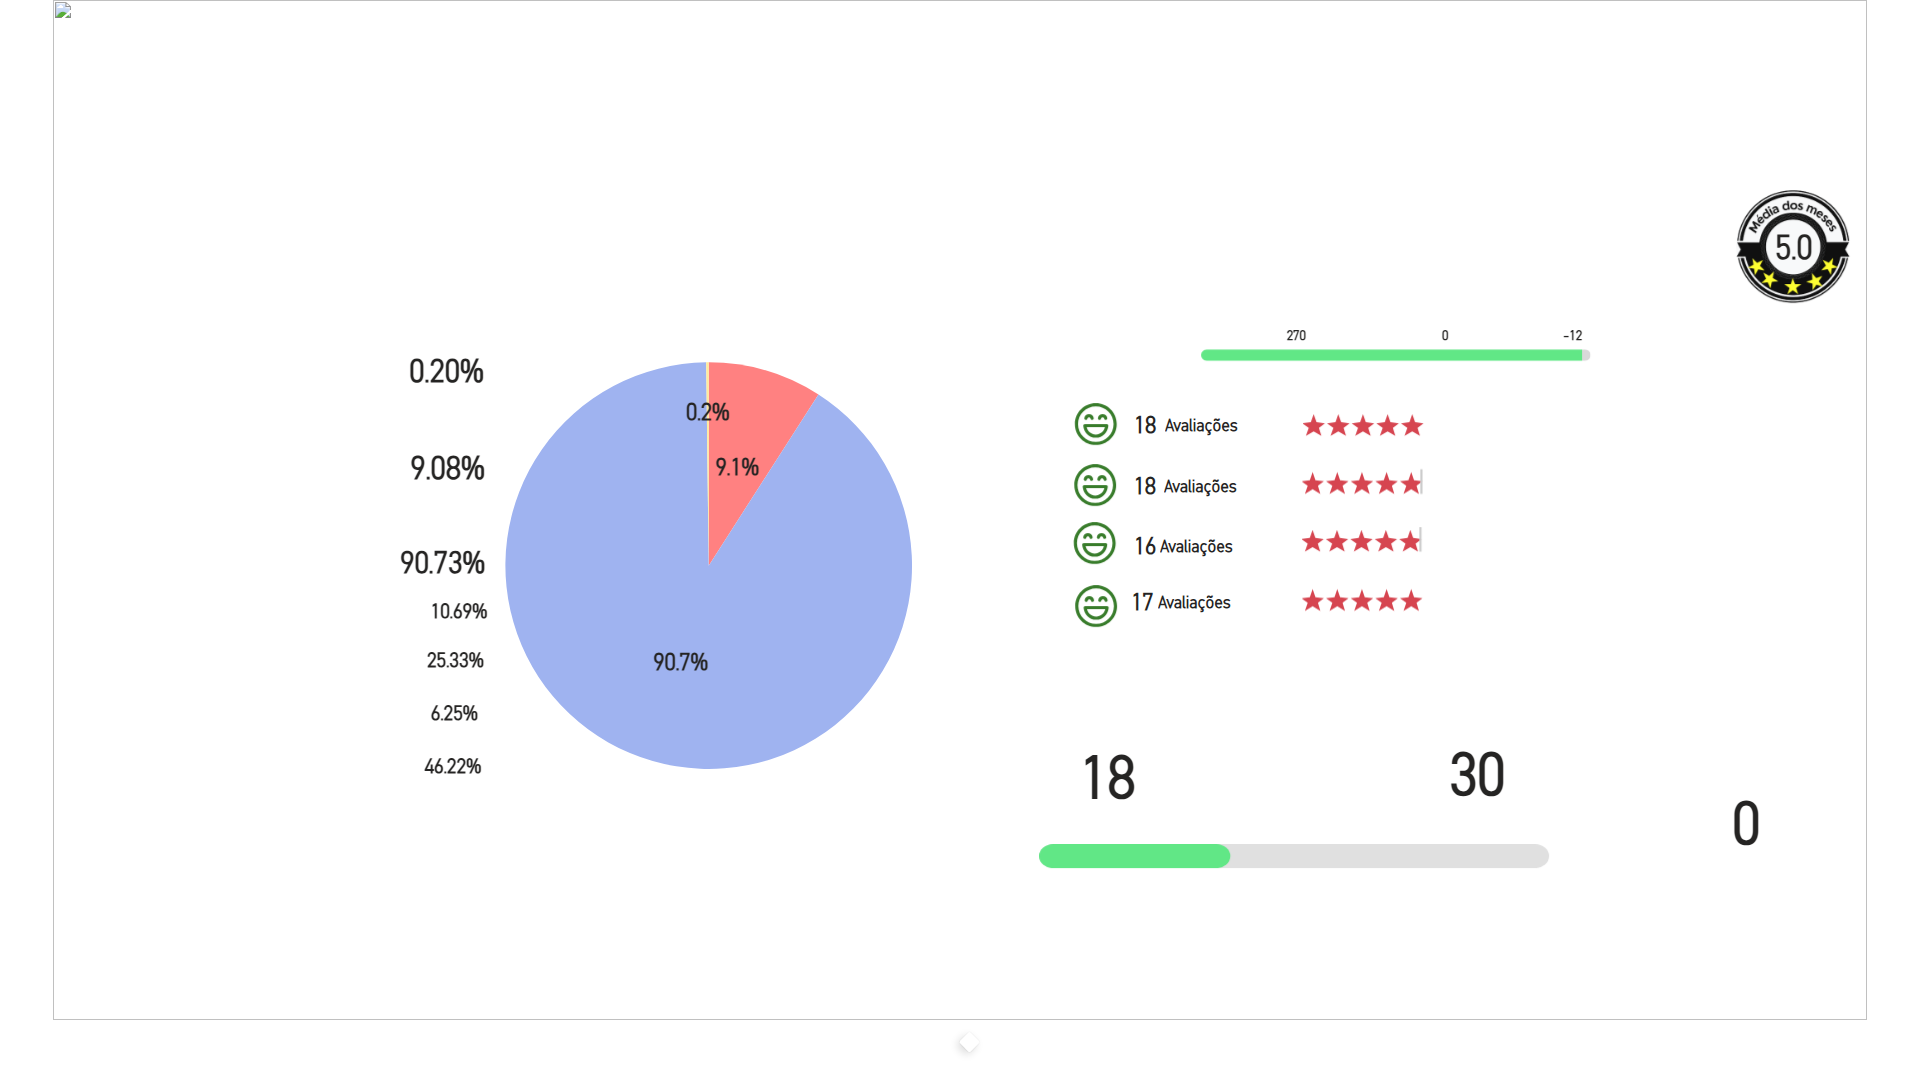
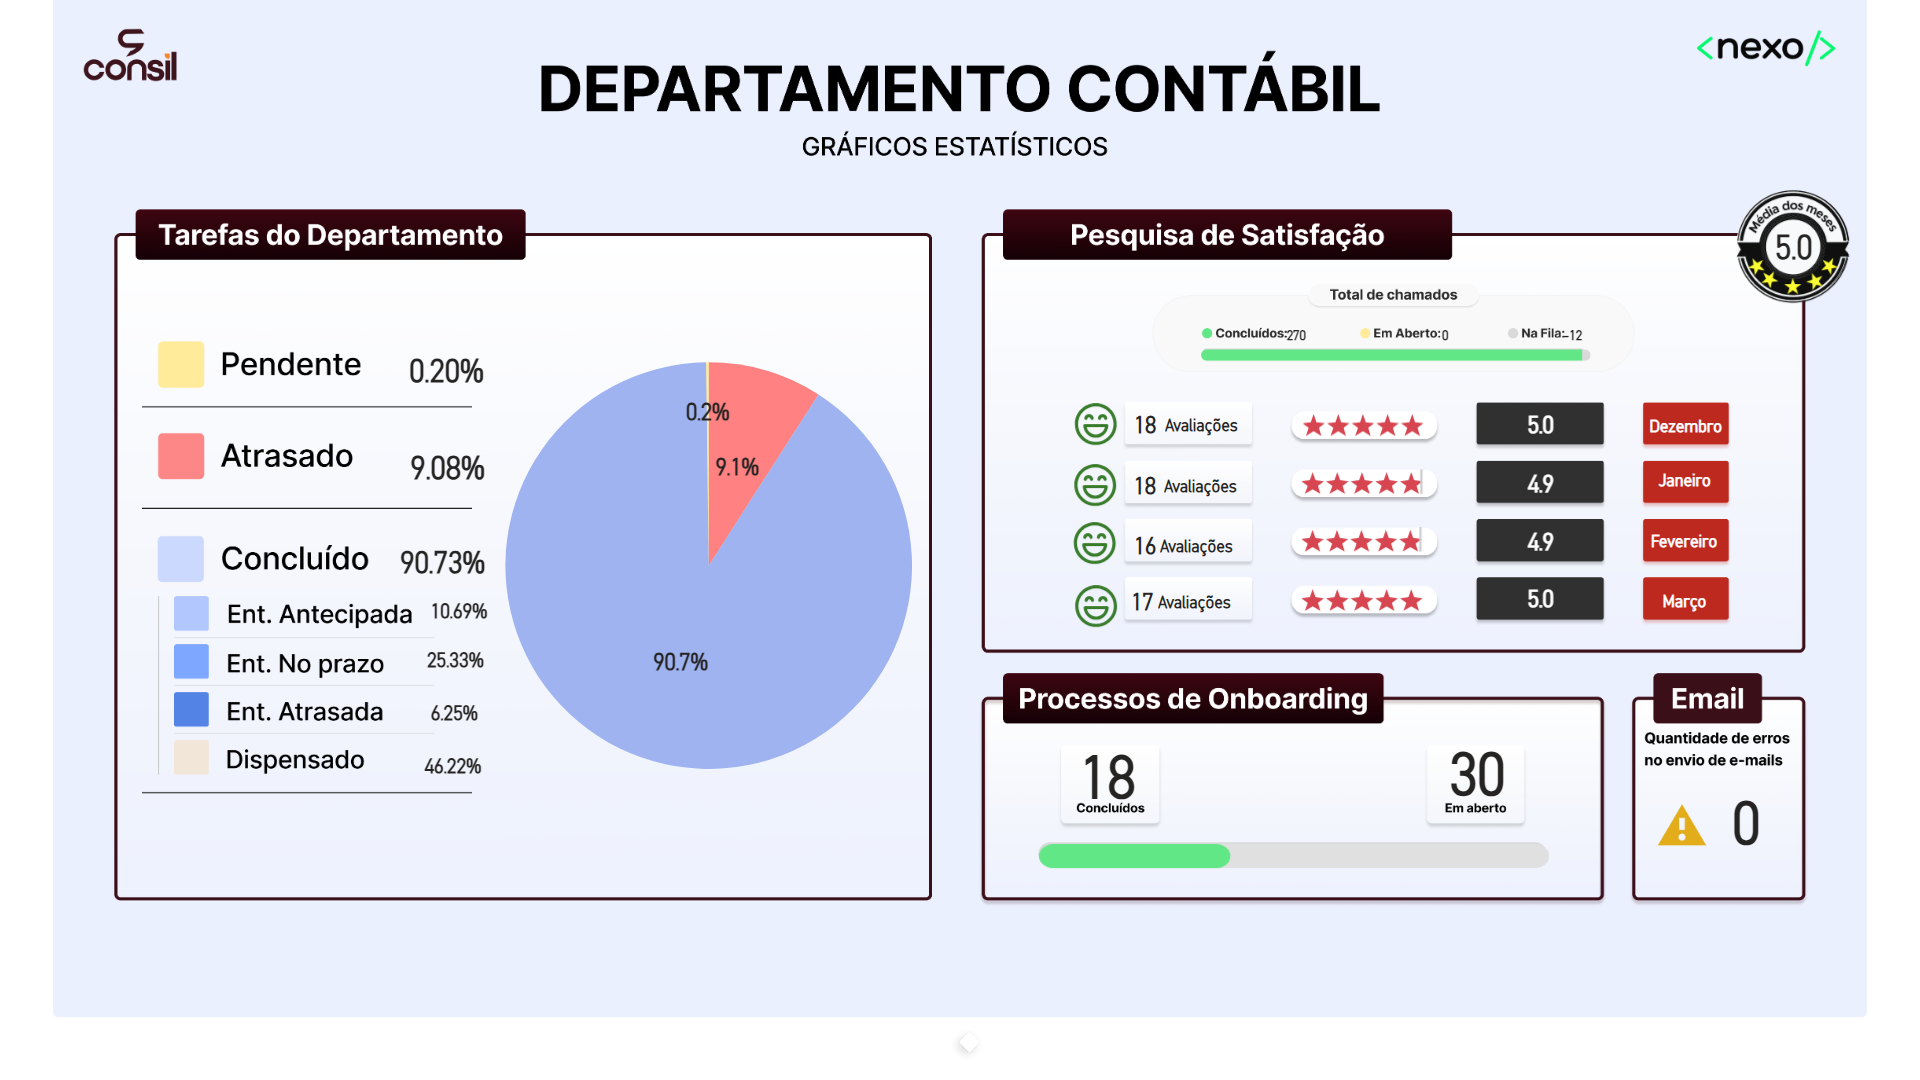
Dados atualizados - 30/03/2026, 11:30:30

diff --git a/js/printScreen-playwright.js b/js/printScreen-playwright.js
@@ -1,4 +1,4 @@
-import { chromium } from 'playwright';
+import { chromium } from 'playwright';
 import fs from 'fs';
 import path from 'path';
 
@@ -109,8 +109,8 @@ export default async function capturarPaginasPowerBI() {
     console.log('Acessando o Power BI...');
     await page.goto(url, { waitUntil: 'networkidle' });
 
-    console.log('Aguardando 25 segundos para carregamento completo...');
-    await page.waitForTimeout(25000);
+    console.log('Aguardando 35 segundos para carregamento completo...');
+    await page.waitForTimeout(35000);
 
     // Aguardar elementos do Power BI carregarem
     await page.waitForSelector(
